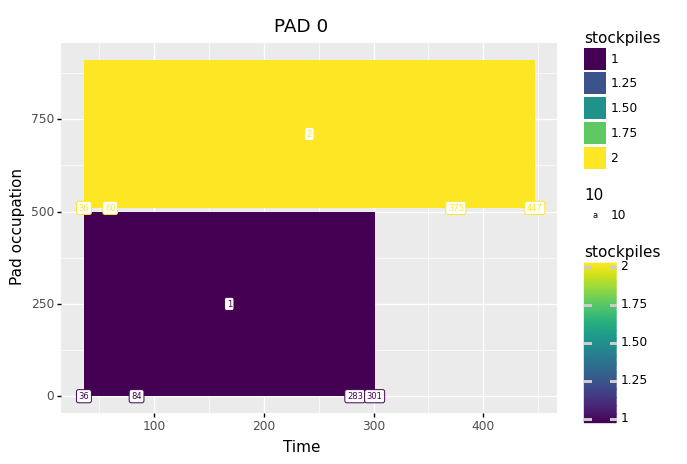
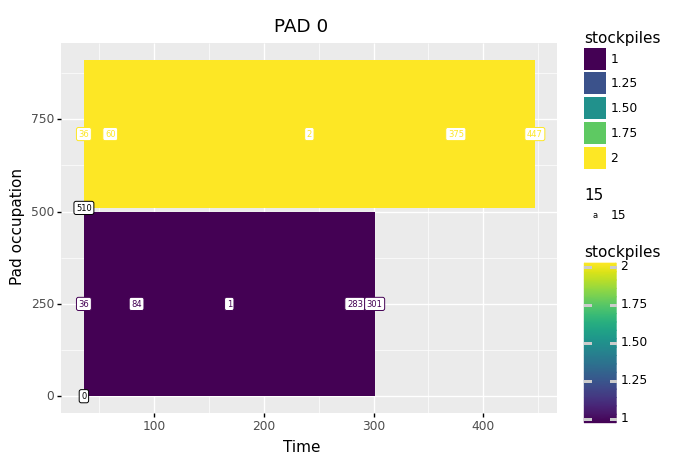
#04

diff --git a/ALGORITHMS/ALGORITHM1.py b/ALGORITHMS/ALGORITHM1.py
@@ -296,13 +296,24 @@ def ALGORITHM1(dic_ship, dic_instance, dic_berth, dic_stockpile, dic_pad, dic_lo
     #print(lista_dic_stacker)
 
     df_stk = pd.DataFrame(lista_dic_stacker)
-    print(df_stk)
+    #print(df_stk)
 
     graph_stackers = (
         ggplot(data = df_stk)
         +geom_bar(aes(x = 't_scheduled_stacking', y = 'res_cap_hours_stacker', fill = 'stacker_streams'), stat = 'identity', width = 5, position=position_dodge2(preserve = "single"))
         #+geom_point(aes(x = 't_scheduled_stacking', y = 'res_cap_hours_stacker'))
-        +geom_label(aes(label = 'res_cap_hours_stacker', x = 't_scheduled_stacking', y = 'res_cap_hours_stacker', color = 'stacker_streams'))
+        +geom_label(aes(label = 'res_cap_hours_stacker', x = 't_scheduled_stacking', y = 'res_cap_hours_stacker', color = 'stacker_streams', size = 10))
+
+        +theme(axis_text_x= element_text(angle =90, vjust = 1))
+        +xlab('t_scheduled_stacking')
+        +facet_wrap('stacker_streams', ncol = 4)
+        +theme(subplots_adjust = { 'wspace' : 0.25})
+        +scale_y_continuous(limits = (0,10.0))
+        +geom_label(aes(label = 't_scheduled_stacking', x = 't_scheduled_stacking', y = 9.0, color = 'stacker_streams', size = 10))
+        + geom_label(
+        aes(label='stockpiles_pad_serviced', x='t_scheduled_stacking', y=8.5, color='stacker_streams', size=10))
+        #+xlab('t_scheduled_stacking')
+        #+scale_x_discrete(axis_text_x= 't_scheduled_stacking')
         #+ aes(x = 'stacker_streams', y= 't_scheduled_stacking')
         #+ geom_line(aes(linetype = 'stackeDr_streams', color = 'stacker_streams'))
         # + geom_label(aes(label = "reclaim_start",  x = "reclaim_start", y = "reclaimers", size = 10))
@@ -310,12 +321,11 @@ def ALGORITHM1(dic_ship, dic_instance, dic_berth, dic_stockpile, dic_pad, dic_lo
         # + labs(title = 'Reclaimers schedule', x = "Time", y = 'Reclaimers')
         ) #mostrar todos os valores no eixo x
 
-    print(graph_stackers)
+    #print(graph_stackers)
 
-    ##############################################    STOCKPILES, PADS, LPS    #########################################
+    ##############################################    STOCKPILES, PADS    ##############################################
     lista_dic_stockpile_pad_0 = []
     lista_dic_stockpile_pad_1 = []
-    list_dic_load_point = []
 
     for s in dic_stockpile['stockpiles']:
             dic_aux = {}
@@ -336,30 +346,15 @@ def ALGORITHM1(dic_ship, dic_instance, dic_berth, dic_stockpile, dic_pad, dic_lo
             else:
                 lista_dic_stockpile_pad_1.append(dic_aux)
 
-    for l in dic_load_point['load_points']:
-        count = 0
-        while count < len(dic_load_point['n_coalmov_stockpile_time'][l]):
-            dic_aux = {}
-            dic_aux = dict( load_point = dic_load_point['load_points'][l],
-                            n_coalmov = dic_load_point['n_coalmov_stockpile_time'][l][count][1],
-                            time_n_coalmov = dic_load_point['n_coalmov_stockpile_time'][l][count][4]
-                            )
-            list_dic_load_point.append(dic_aux)
-            count += 1
-
 
     # print(lista_dic_stockpile_pad_0)
     # print(lista_dic_stockpile_pad_1)
-    # print(list_dic_load_point)
 
     df_s_pad_0 = pd.DataFrame(lista_dic_stockpile_pad_0)
-    # print(df_s_pad_0)
+    #print(df_s_pad_0)
 
     df_s_pad_1 = pd.DataFrame(lista_dic_stockpile_pad_1)
     # print(df_s_pad_1)
-
-    df_lp = pd.DataFrame(list_dic_load_point)
-    # print(df_lp)
 
     # GANTT DOS PADS x STOCKPILES
     # Pad on which stockpile s is assembled + position of stockpile s on its pad + number of coal movements carried out for stockpile s from load point l at time t
@@ -371,14 +366,15 @@ def ALGORITHM1(dic_ship, dic_instance, dic_berth, dic_stockpile, dic_pad, dic_lo
         + geom_rect(aes(xmin = "time_build_start", xmax = "time_rec_finish", ymin = "position_pad_start", ymax = "position_pad_finish", fill = "stockpiles"))
         + labs(title = "PAD 0", x = "Time", y = "Pad occupation")
         + scale_fill_continuous(guide = guide_legend())
-        + geom_label(aes(label="stockpiles", x="stockpile_label_x", y="stockpile_label_y", size=10, color="stockpiles"))
-        + geom_label(aes(label="time_build_start", x="time_build_start", y="position_pad_start", size=10, color="stockpiles"))
-        + geom_label(aes(label="time_build_finish", x="time_build_finish", y="position_pad_start", size=10, color="stockpiles"))
-        + geom_label(aes(label="time_rec_start", x="time_rec_start", y="position_pad_start", size=10, color="stockpiles"))
-        + geom_label(aes(label="time_rec_finish", x="time_rec_finish", y="position_pad_start", size=10, color="stockpiles"))
-        #+ geom_label(aes(label="n_coalmov", x="time_n_coalmov", y="position_pad_finish", size=10, color="load_point"))
+        + geom_label(aes(label = "stockpiles",  x = "stockpile_label_x", y = "stockpile_label_y", size = 15, color = "stockpiles" ))
+        + geom_label(aes(label="time_build_start", x="time_build_start", y="stockpile_label_y", size=15, color ="stockpiles"))
+        + geom_label(aes(label="time_build_finish", x="time_build_finish", y="stockpile_label_y", size=15, color="stockpiles"))
+        + geom_label(aes(label="time_rec_start", x="time_rec_start", y="stockpile_label_y", size=15, color="stockpiles"))
+        + geom_label(aes(label="time_rec_finish", x="time_rec_finish", y="stockpile_label_y", size=15, color="stockpiles"))
+        + geom_label(aes(label="position_pad_start", x="time_build_start", y="position_pad_start", size=15))
 
     )
+
     #print(graph_stockpiles_pad_0)
 
     graph_stockpiles_pad_1 = (
@@ -387,20 +383,79 @@ def ALGORITHM1(dic_ship, dic_instance, dic_berth, dic_stockpile, dic_pad, dic_lo
         + geom_rect(aes(xmin = "time_build_start", xmax = "time_rec_finish", ymin = "position_pad_start", ymax = "position_pad_finish", fill = "stockpiles"))
         + labs(title = "PAD 1", x = "Time", y = "Pad occupation")
         + scale_fill_continuous(guide = guide_legend())
-        + geom_label(aes(label = "stockpiles",  x = "stockpile_label_x", y = "stockpile_label_y", size = 10, color = "stockpiles" ))
-        + geom_label(aes(label="time_build_start", x="time_build_start", y="position_pad_start", size=10, color ="stockpiles"))
-        + geom_label(aes(label="time_build_finish", x="time_build_finish", y="position_pad_start", size=10, color="stockpiles"))
-        + geom_label(aes(label="time_rec_start", x="time_rec_start", y="position_pad_start", size=10, color="stockpiles"))
-        + geom_label(aes(label="time_rec_finish", x="time_rec_finish", y="position_pad_start", size=10, color="stockpiles"))
-
+        + geom_label(aes(label = "stockpiles",  x = "stockpile_label_x", y = "stockpile_label_y", size = 15, color = "stockpiles" ))
+        + geom_label(aes(label="time_build_start", x="time_build_start", y="stockpile_label_y", size=15, color ="stockpiles"))
+        + geom_label(aes(label="time_build_finish", x="time_build_finish", y="stockpile_label_y", size=15, color="stockpiles"))
+        + geom_label(aes(label="time_rec_start", x="time_rec_start", y="stockpile_label_y", size=15, color="stockpiles"))
+        + geom_label(aes(label="time_rec_finish", x="time_rec_finish", y="stockpile_label_y", size=15, color="stockpiles"))
+        + geom_label(aes(label="position_pad_start", x="time_build_start", y="position_pad_start", size=15))
     )
     #print(graph_stockpiles_pad_1)
+
+    ##############################################    LOAD POINTS    #################################################
+    list_dic_load_point_0 = []
+    list_dic_load_point_1 = []
+    list_dic_lp_general = []
+
+    for l in dic_load_point['load_points']:
+        count = 0
+        while count < len(dic_load_point['n_coalmov_stockpile_time'][l]):
+            dic_aux = {}
+            dic_aux = dict(load_point=dic_load_point['load_points'][l],
+                           n_coalmov=dic_load_point['n_coalmov_stockpile_time'][l][count][1],
+                           stockpile_n_coalmov=dic_load_point['n_coalmov_stockpile_time'][l][count][0],
+                           time_n_coalmov=dic_load_point['n_coalmov_stockpile_time'][l][count][4]
+                           )
+
+            if dic_load_point['load_points'][l] == 0:
+                list_dic_load_point_0.append(dic_aux)
+            else:
+                list_dic_load_point_1.append(dic_aux)
+
+
+            #list_dic_load_point.append(dic_aux)
+            count += 1
+
+    df_lp0 = pd.DataFrame(list_dic_load_point_0)
+    print(df_lp0)
+
+    df_lp1 = pd.DataFrame(list_dic_load_point_1)
+    print(df_lp1)
+
+    # (stockpile, nº mov, load point, k em serviço, tempo)
+    # (0            1       2               3           4)
+
+
+
+    graph_n_lp0_s = (
+        ggplot(data = df_lp0)
+        +geom_point(aes(x ="time_n_coalmov", y ="n_coalmov", color = 'stockpile_n_coalmov' ))
+        +geom_label(aes(label = 'time_n_coalmov', x ="time_n_coalmov", y ="n_coalmov", color = 'stockpile_n_coalmov', size = 15))
+        + facet_wrap('stockpile_n_coalmov')
+
+    )
+
+    #print(graph_n_lp0_s)
+
+    graph_n_lp1_s = (
+        ggplot(data = df_lp1)
+        +geom_point(aes(x ="time_n_coalmov", y ="n_coalmov", color = 'stockpile_n_coalmov' ))
+        +geom_label(aes(label = 'time_n_coalmov', x ="time_n_coalmov", y ="n_coalmov", color = 'stockpile_n_coalmov', size = 15))
+        + facet_wrap('stockpile_n_coalmov')
+
+    )
+
+    #print(graph_n_lp1_s)
+
+
+
 
     os.chdir("OUTPUT")
     ggsave(plot=graph_berths, filename='berths_schedule')
     ggsave(plot=graph_reclaimers, filename='reclaimers_schedule')
     ggsave(plot=graph_stockpiles_pad_0, filename='pad_0_schedule')
     ggsave(plot=graph_stockpiles_pad_1, filename='pad_1_schedule')
+    ggsave(plot=graph_stackers, filename='stackers_usage_and_remaining_capacity')
+    ggsave(plot=graph_n_lp0_s, filename='movements_lp0_for_stockpiles')
+    ggsave(plot=graph_n_lp1_s, filename='movements_lp1_for_stockpiles')
 
-
-#(stockpile, nº mov, load point, k em serviço, tempo)
